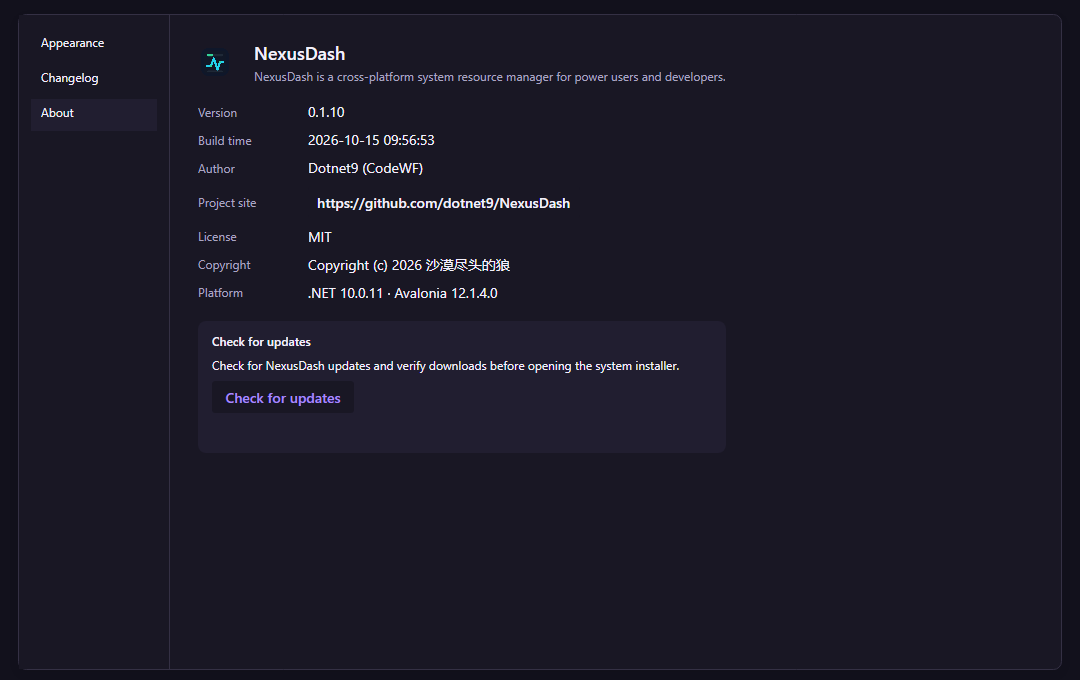
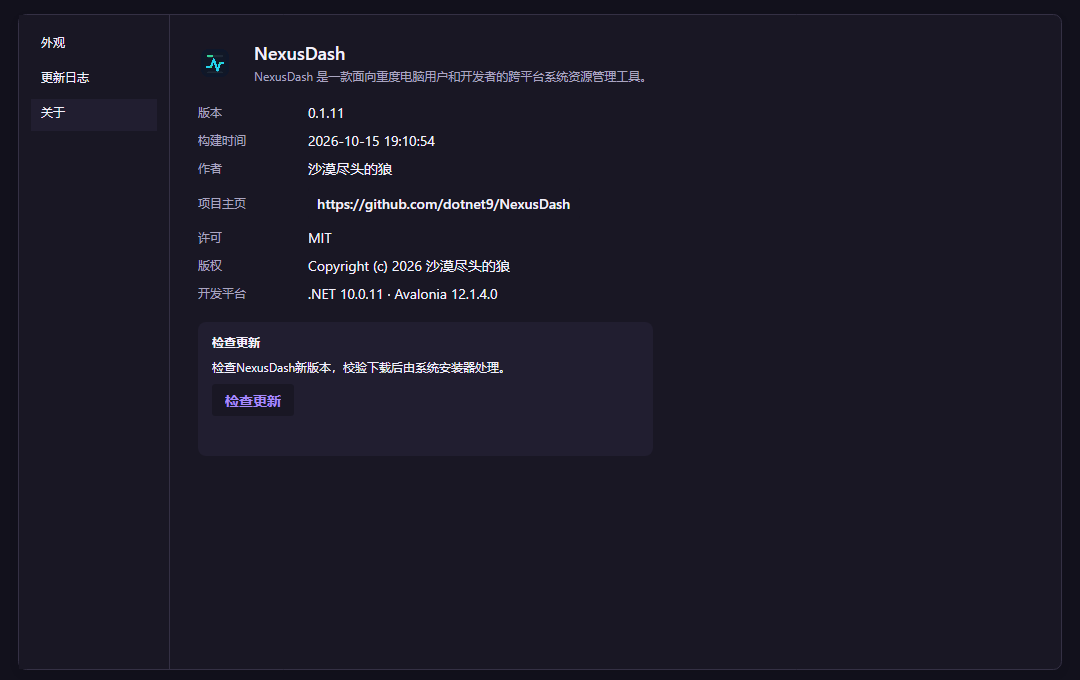
docs: 发布0.1.11并更新原生界面和遥测验证记录

diff --git a/docs/UI-VERIFICATION.md b/docs/UI-VERIFICATION.md
@@ -1,15 +1,17 @@
-# 界面与 NativeAOT 复核
+# 原型与 NativeAOT 复核
 
-2026-10-15，版本 0.1.10。主要修正主题模式与配色混用、设置页切语后仍保留旧文本，以及派生窗口没有应用尺寸和字体样式的问题；关于页改用 Toolkit 更新服务。
+2026-10-15，版本 0.1.11。标题栏搜索右侧提供单排八色点、Ursa 三态模式按钮和四语下拉，复用外观设置页的主题与配色状态。
 
-## 已验证
+- 使用 CodeWF.Avalonia 12.1.4.22 和 Toolkit 1.0.0.19。宿主 JSON 输出至 `I18n/`，强类型键由 T4 生成；应用与库共用 Toolkit 语言单例，宿主资源优先覆盖库内嵌资源。
+- 执行仓库 `scripts/publish.ps1 -RuntimeIdentifier win-x64` 发布正式 Windows NativeAOT；UI 验证器另行 NativeAOT 发布并运行，绘制真实 App 和设置窗口。八色三态采用 Ursa 内部按钮实际点击，验证当前提示随语言变化、偏好保存和四语下拉，检查 1180/1440 宽度无重叠。
+- 原生验证覆盖 40px 标题栏、字体回退、八色浅深组合、旧配色迁移、已打开设置页的动态四语通知与选项刷新、关于页实际版本和编译时间。
+- 更新状态机以受控服务验证检查、失败、缺校验文件、下载、校验失败、安装、重复检查、动态切语、取消和关闭期间取消；不启动真实安装器。
+- 单文件离线原型覆盖四个导航入口、四语、八色三态、系统变化、进程搜索/筛选及更新状态，标题栏与桌面窗框同步实现。
+- 本机生成 Windows EXE 安装器及 SHA256；包装回归检查 macOS Resources、Linux 桌面入口和图标、符号剔除、失败传播及五平台安装器资产门禁。
 
-- CodeWF.Avalonia 12.1.4.18 与 Toolkit 1.0.0.18 通过 NuGet 引用；宿主 JSON 输出到程序目录，强类型键由 T4 生成。
-- 两个目标框架 Release 构建成功；仓库 `scripts/publish.ps1 -RuntimeIdentifier win-x64` 完成 Windows NativeAOT 发布。
-- UI 验证器另行 NativeAOT 发布并实际运行，98 项断言通过，24 张原生 PNG。覆盖真实窗口 1440 × 760、40 px 标题栏和字体回退，三态八色的独立保存、旧配色迁移、四语设置与关于页、真实版本和编译时间。
-- 在已打开的设置页上切语，校验属性变更通知及当前下拉选项文本，避免只检查资源查询值。系统模式与配色分别保持。
-- 更新检查、失败、缺少校验文件降级、下载、校验失败、手动安装、重复检查、动态切语、取消及关闭期间取消使用受控服务测试，不启动真实安装器。
-- 原型门禁检查四个导航入口、四语 × 三态 × 八色共 96 组组合、系统变化及更新 / 取消状态，无脚本异常。
+正式 EXE 另提供 `--verify-runtime <独立目录>` 自检：检查发布的语言 JSON、全局动态切语与隔离偏好持久化。Windows 下还会只读采样实际硬件、进程和系统指标，验证 CPU 名称、物理核、总内存、固件以及进程命令行、服务元数据，不输出用户进程名或路径。该检查不创建窗口、不读取用户账号或仓库；UI 验证器另行检查真实控件与布局，两者均不替代人工桌面验收。
+
+Windows 硬件和进程静态信息复用现有隐藏命令执行器，通过系统 PowerShell CIM 查询并解析 JSON，移除 NativeAOT 下无法初始化的 `System.Management`。静态元数据保留缓存，高频基础采样继续使用原生接口；冷启动设置查询时限，取消或超时终止子进程树。验证需同时检查托管与正式原生产物的实际字段，页面和主题断言通过不代表系统遥测有效。
 
 ![原生主窗口](media/nexusdash-native-dark.png)
 
@@ -17,8 +19,6 @@
 
 ![原生关于](media/nexusdash-native-about.png)
 
-## 边界
+`design/index.html` 是当前单文件产品原型，按现有四张监控卡片和设置流程完善；历史概念稿保留在 `scripts/prototype/legacy.html`。截图使用真实系统只读采样，未执行结束进程等破坏性操作。
 
-`design/index.html` 保留旧概念稿，`design/studio.html` 补齐现有产品导航和本轮确认的设置流程。原始三卡片概念稿与当前四监控卡布局存在版本差异，不能宣称完全像素一致。实际截图采用真实系统只读采样；没有测试结束进程等破坏性操作。
-
-锁屏期间使用离屏渲染与无头浏览器；真实鼠标、输入法、多 DPI、多显示器、真实安装器和其他操作系统未完成验收。原生发布仍有第三方裁剪 / AOT 分析警告，通过的路径不代表所有反射分支均被覆盖。
+锁屏期间使用离屏渲染和无头浏览器。交互覆盖或局部几何不能视为全页 95% 还原。鼠标键盘、输入法、多 DPI、跨屏、真实安装器及其他操作系统 UI 尚需验收。第三方依赖保留裁剪与 AOT 分析警告，已通过路径不代表全部反射分支。

diff --git a/UpdateLog.md b/UpdateLog.md
@@ -1,5 +1,16 @@
 # 更新日志
 
+## 0.1.11（2026-10-15）
+
+- 正式原生程序增加 `--verify-runtime <独立目录>`，验证输出语言资源、隔离偏好及 Windows 实际硬件、进程和系统指标；Windows 发布流水线在制作安装器前执行。
+
+- 全局语言状态统一由 Toolkit 管理，升级 CodeWF.Avalonia 12.1.4.22 和 Toolkit 1.0.0.19，固定 XAML Loader 为 Avalonia 12.1.4。
+- 修复 NativeAOT 下 System.Management 初始化失败导致硬件和进程静态信息缺失：复用隐藏命令执行器查询 PowerShell CIM，保留静态缓存和原生高频采样，增加冷启动时限与取消清理。
+- 标题栏搜索右侧增加八色点、Ursa 三态模式按钮和四语下拉，与设置页共用偏好；模式提示动态切语，原型同步交互与桌面窗框。
+- SDK 允许前滚到后续 .NET 10 feature band，修复云端 macOS 缺少指定旧 SDK 时无法构建。
+- 标准化 macOS Resources 和 Linux 桌面入口，五平台只发布安装器及 SHA256；打包失败和产物缺失均阻止发布。
+- 本机正式 Windows NativeAOT、原生 UI 断言及 EXE 安装器构建通过，更新实际界面截图。
+
 ## 0.1.10 (2026-10-15)
 
 - 主题模式与八套配色分别保存，兼容旧主题偏好；修复设置页切语后旧选项和侧栏未刷新。
